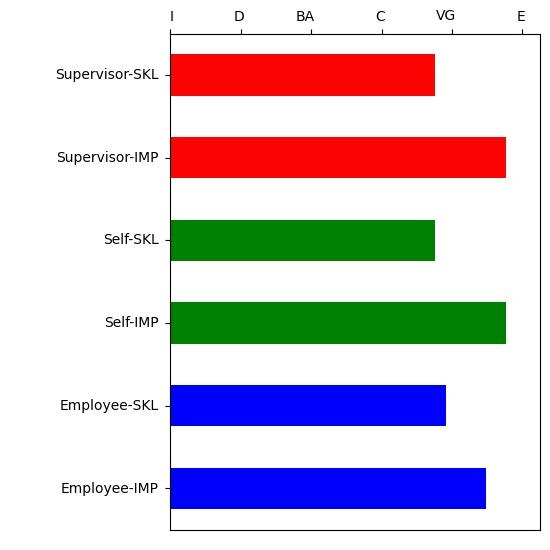
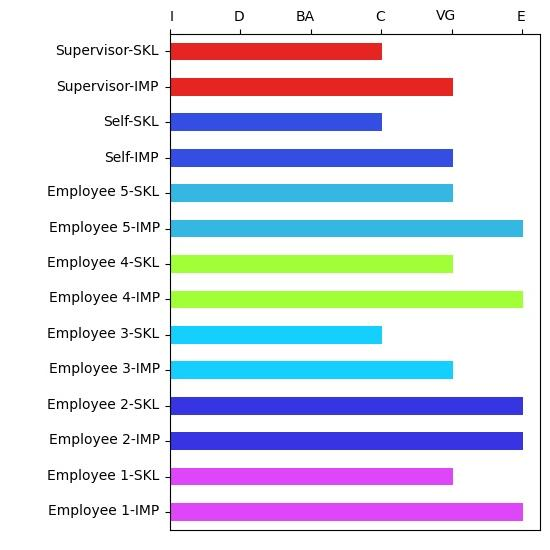
Preparing for larger test group
dataReader is only for HR so doesn't need to look fantastic.

diff --git a/dataReader.py b/dataReader.py
@@ -148,7 +148,8 @@ def createDataFrame(assessments):
 # function to upload/display graphs using data frame
 def plotData(df, reviewee):
     # get different colors
-    colorDictionary = {0: '#ED6560',2: '#7BD7A8',4: '#F7A1C5',6: '#3952C6',8: '#a100ff',10: '#4522EA', 12: '#8E89C2', 14: '#8AE98B'}
+    colorDictionary = {0: '#E62421',2: '#344EE3',4: '#34B8E3',6: '#A1FF37',8: '#14CFFF',10: '#3634E3', 12: '#DF46FA', 14: '#E34234', 16: '#FB9F3A'
+    , 18: '#FAF6D1', 20: '#E6AF8C', 22: '#9AC3E6', 24: '#C4B5FA', 26: '#FADA82', 28: '#E6AFAC', 30: '#9EE6DA', 32: '#60E651', 34:'#FA72F7'} # TODO
     cmap = []
     bars = len(df.index)
     for num in range(bars):
@@ -177,6 +178,11 @@ def plotData(df, reviewee):
         ax.set_ylim(ymax=5.25)
         ax.get_legend().remove()
         plt.yticks(rotation= 90)
+        plt.yticks([0,1,2,3,4,5], ['I', 'D', 'BA', 'C', 'VG', 'E'])
+        # create table to imitate textbox + add question info/text to document
+        table = document.add_table(rows=1, cols=2)
+        row = table.rows[0].cells
+        row[1].text = headers[3+(i*2)]
         # add image
         plt.savefig('temp.jpg', bbox_inches='tight')
         imageFile = Image.open('temp.jpg')
@@ -185,9 +191,8 @@ def plotData(df, reviewee):
         background.paste(imageFile)
         background = background.rotate(270)
         background.save('temp.jpg')
-        document.add_picture('temp.jpg', width=Inches(3))
-        # add question info/text to document
-        paragraph = document.add_paragraph(headers[3+(i*2)])
+        run = row[0].paragraphs[0].add_run()
+        run.add_picture('temp.jpg', width=Inches(4))
         # save that sweet, sweet memory
         imageFile.close()
         plt.close()
